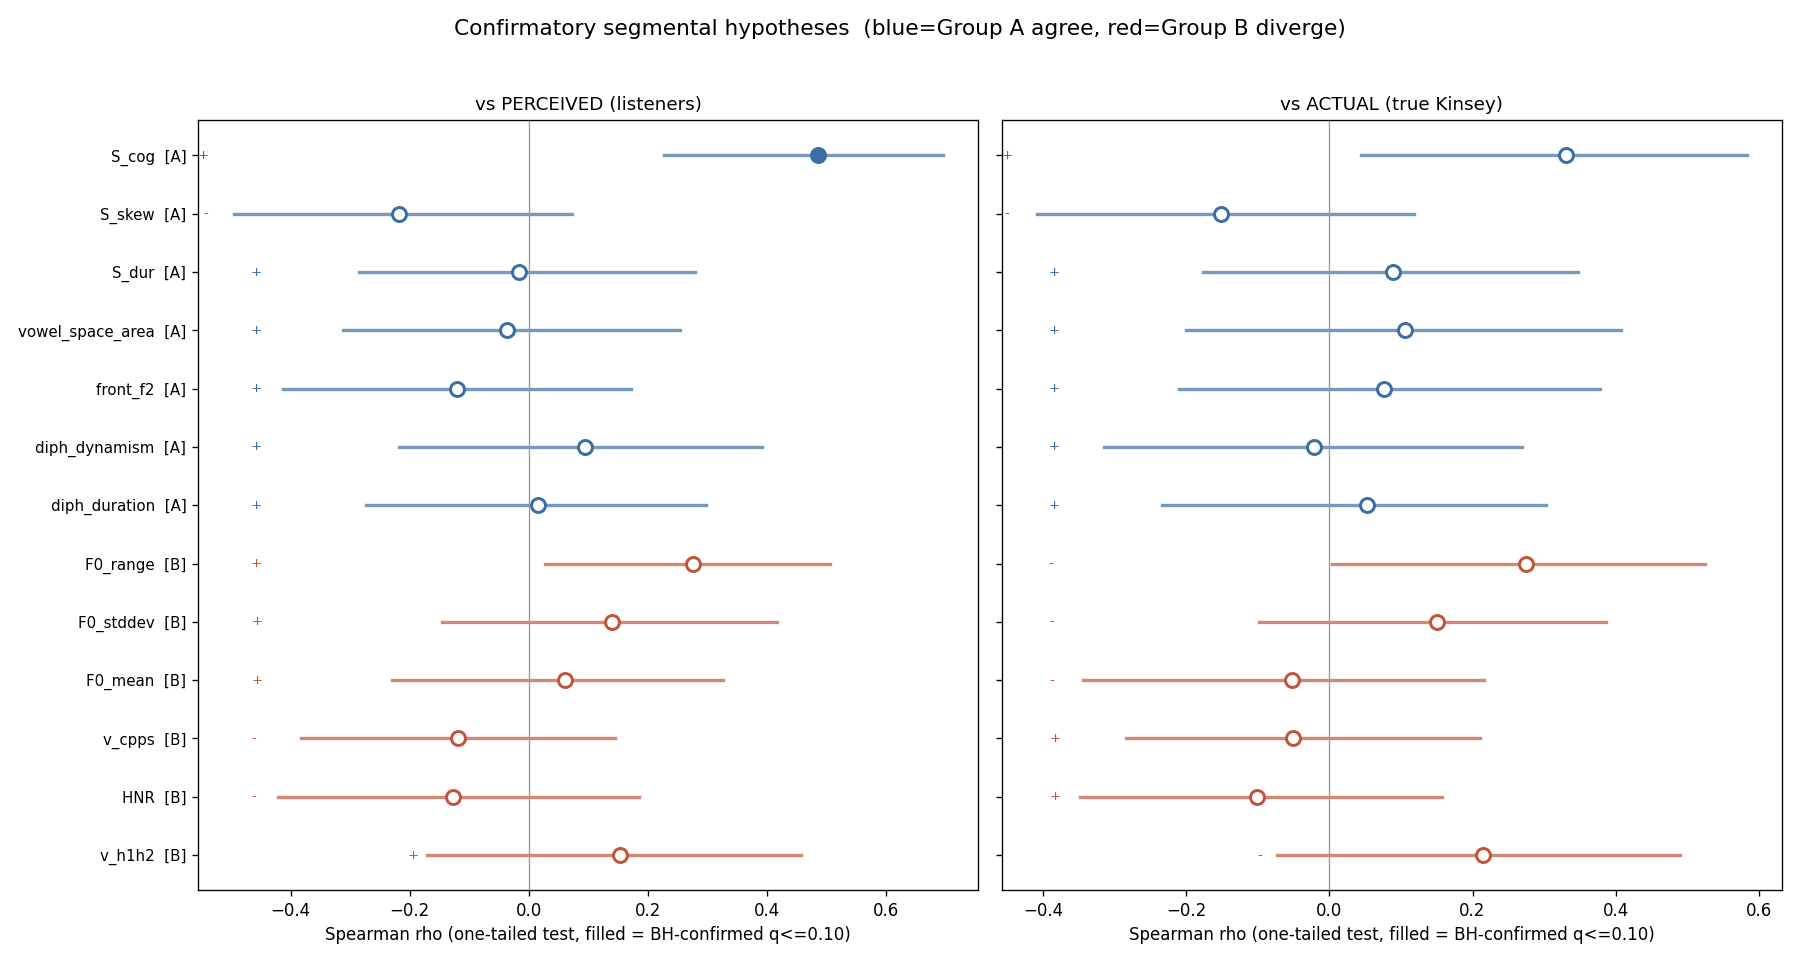
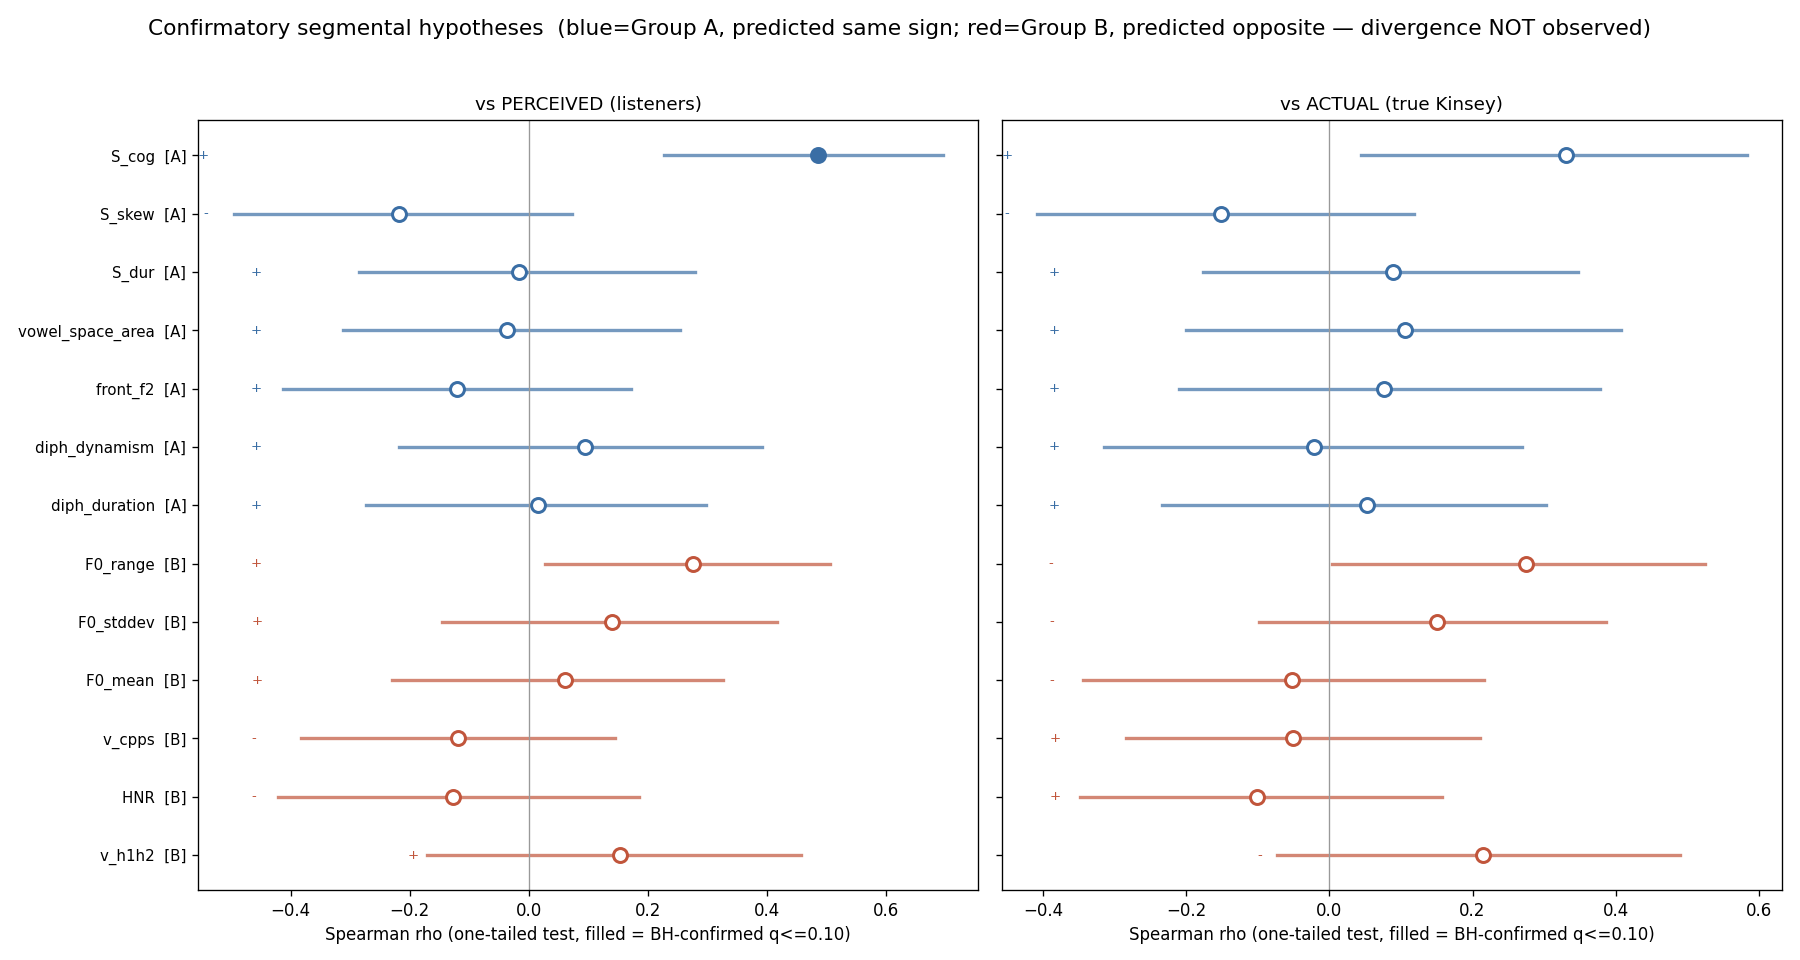
fix: titles and axes more accurate

Changed region(s): [[0.0933, 0.0, 0.9022, 0.0625]]

diff --git a/F25/src/02_inference.py b/F25/src/02_inference.py
@@ -130,12 +130,15 @@ def divergence_figure(table, path, title):
     ax1.plot([-lim, lim], [-lim, lim], 'k:', alpha=0.5, label='equal (y = x)')
     ax1.scatter(ra[~div], rp[~div], s=28, color='#9fb2c4', alpha=0.8,
                 label='other features')
-    ax1.scatter(ra[div], rp[div], s=48, color='#c1553b',
-                label='perceived-only (BH)')
-    # name the divergent features
-    for _, row in table[div].iterrows():
-        ax1.annotate(row['feature'][:24], (row['rho_actual'], row['rho_perceived']),
-                     fontsize=6, xytext=(4, 2), textcoords='offset points')
+    # only draw the divergent-feature series (and its legend entry) if any exist,
+    # else the legend advertises a category with no points in it.
+    if div.any():
+        ax1.scatter(ra[div], rp[div], s=48, color='#c1553b',
+                    label='perceived-only (BH)')
+        for _, row in table[div].iterrows():
+            ax1.annotate(row['feature'][:24],
+                         (row['rho_actual'], row['rho_perceived']),
+                         fontsize=6, xytext=(4, 2), textcoords='offset points')
     ax1.set_xlim(-lim, lim)
     ax1.set_ylim(-lim, lim)
     ax1.set_xlabel('Spearman rho  vs  ACTUAL (true Kinsey)')

diff --git a/F25/src/04_segmental.py b/F25/src/04_segmental.py
@@ -137,8 +137,8 @@ def forest(tab, path):
     axes[0].set_yticks(y)
     axes[0].set_yticklabels([f'{f}  [{g}]' for f, g in
                              zip(order['feature'], order['group'])], fontsize=9)
-    fig.suptitle('Confirmatory segmental hypotheses  (blue=Group A agree, '
-                 'red=Group B diverge)', fontsize=13)
+    fig.suptitle('Confirmatory segmental hypotheses  (blue=Group A, predicted same sign; '
+                 'red=Group B, predicted opposite — divergence NOT observed)', fontsize=13)
     fig.tight_layout(rect=[0, 0, 1, 0.96])
     fig.savefig(path, dpi=120)
     plt.close(fig)
